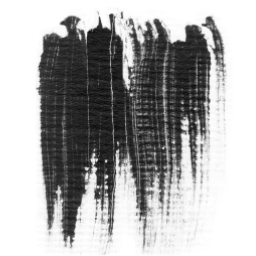
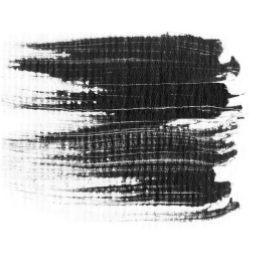
Editor: Brush tol 0.7 rotation

diff --git a/sources/js/editor.js b/sources/js/editor.js
@@ -47,13 +47,12 @@
   var Socket = {};
   var Folder = {};
 
-  // TODO editor tool picker
+  // TODO editor tool picker-color
   // TODO tool foreground per aggiungere in primo o ultimo piano le modifiche
   // TODO su doppio click con gomma --> bucket con colore trasparente per cancellare quella zona
   // TODO gomma con alpha su pressione, invece che dimensione
   // TODO BUG bucket su zona colorata con tool image
   // TODO BUG Rule buttons
-  // TODO TOOL brush => rotazione seguendo la dirazione di spostamento, su pressione cambia sia alpha che dimensione (forse alpha al contrario di force) (forse anche velocità al contrario di force)
 
   var _config = {
     colors: [
@@ -104,6 +103,7 @@
     randomColor: true,
     shape: "circle",
     image: false,
+    rotation: false,
     imageShape: _canvasForShape,
     globalCompositeOperation: "",
     cursor: false
@@ -751,10 +751,18 @@
 
   function _image (context, x, y, alpha, size, image, rotation) {
 
-    // TODO rotazione
+    // TODO TOOL brush => rotazione seguendo la dirazione di spostamento, su pressione cambia sia alpha che dimensione (forse alpha al contrario di force) (forse anche velocità al contrario di force)
     // TODO se mano sinistra (tools a destra) immagine a specchio (ruotata in partenza)
     context.globalAlpha = alpha;
-    context.drawImage(image, MATH.round(x - size/2), MATH.round(y - size/2), size, size);
+    if (rotation) {
+      context.translate(x, y);
+      context.rotate(-rotation);
+      context.drawImage(image, -size/2, -size/2, size, size);
+      context.rotate(rotation);
+      context.translate(-x, -y);
+    } else {
+      context.drawImage(image, MATH.round(x - size/2), MATH.round(y - size/2), size, size);
+    }
 
   }
 
@@ -1083,7 +1091,7 @@
 
   var __touchMove = (function () {
 
-    var distance = 0, curveLength = 0, size = 0, style = "", midX = 0, midY = 0, delta = 0, params = {};
+    var distance = 0, curveLength = 0, size = 0, style = "", midX = 0, midY = 0, delta = 0, imageRotation = 0, params = {};
 
     return function () {
 
@@ -1102,6 +1110,7 @@
       distance = Utils.distance(_oldMidX, _oldMidY, midX, midY);
       curveLength = quadraticBezierLength({x: _oldMidX, y: _oldMidY}, {x: _oldX, y: _oldY}, {x: midX, y: midY});
       delta = _tool.shape === "image" ? round((curveLength || distance) / 2, 2) : round((curveLength || distance) / (size - 1), 2);
+      imageRotation = _tool.rotation ? Utils.angleRad(_oldX, _oldY, _cursorX, _cursorY) : 0;
       params = {
         type: "move",
         x: _cursorX,
@@ -1117,7 +1126,7 @@
         midY: midY,
         touchForce: _touchForce,
         oldTouchForce: _oldTouchForce,
-        imageRotation: 0
+        imageRotation: imageRotation
       };
       _stepMove(_context, params, _tool);
       if (_coworking) {
@@ -1127,7 +1136,7 @@
       _oldMidY = midY;
       _oldTouchForce = _touchForce;
       _oldSize = size;
-      delta = midX = midY = undefined;
+      imageRotation = delta = midX = midY = undefined;
 
     };
 

diff --git a/sources/js/editorTools.js b/sources/js/editorTools.js
@@ -32,6 +32,7 @@
       maxAplha: 1,
       shape: "circle",
       image: false,
+      rotation: false,
       globalCompositeOperation: "source-over",
       cursor: false,
       versions: [{
@@ -113,6 +114,7 @@
       maxAplha: 0.5,
       shape: "particlesRect",
       image: false,
+      rotation: false,
       globalCompositeOperation: "source-over",
       cursor: false,
       versions: [{
@@ -161,6 +163,7 @@
       maxAplha: 0.06,
       shape: "image",
       image: false,
+      rotation: false,
       globalCompositeOperation: "source-over",
       cursor: false,
       versions: [{
@@ -187,6 +190,7 @@
       maxAplha: 0.06,
       shape: "image",
       image: false,
+      rotation: true,
       globalCompositeOperation: "source-over",
       cursor: false,
       versions: [{
@@ -304,6 +308,7 @@
       maxAplha: 1,
       shape: "circle",
       image: false,
+      rotation: false,
       globalCompositeOperation: "destination-out",
       cursor: true,
       versions: [
@@ -370,6 +375,7 @@
       maxAplha: 1,
       shape: "",
       image: false,
+      rotation: false,
       globalCompositeOperation: "source-over",
       cursor: false
     }
